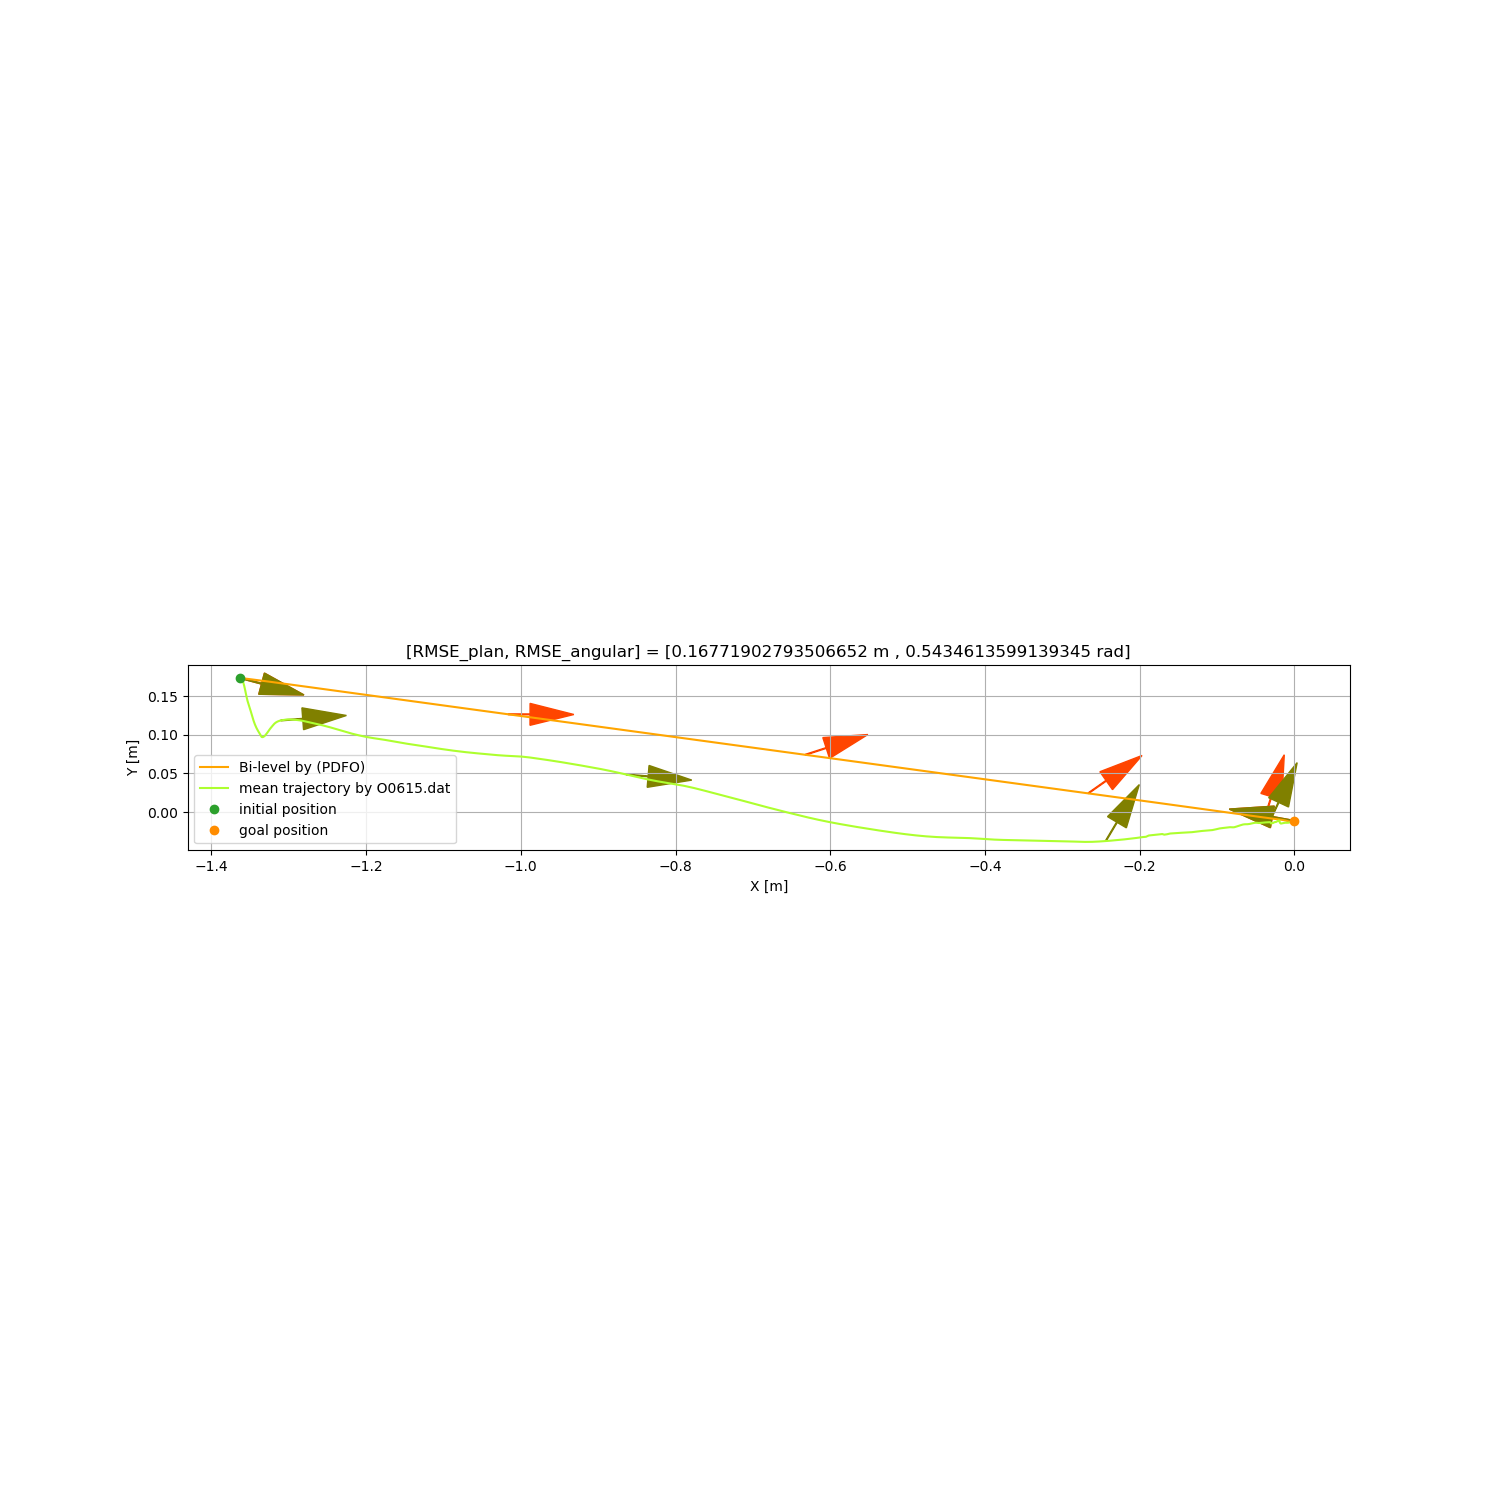
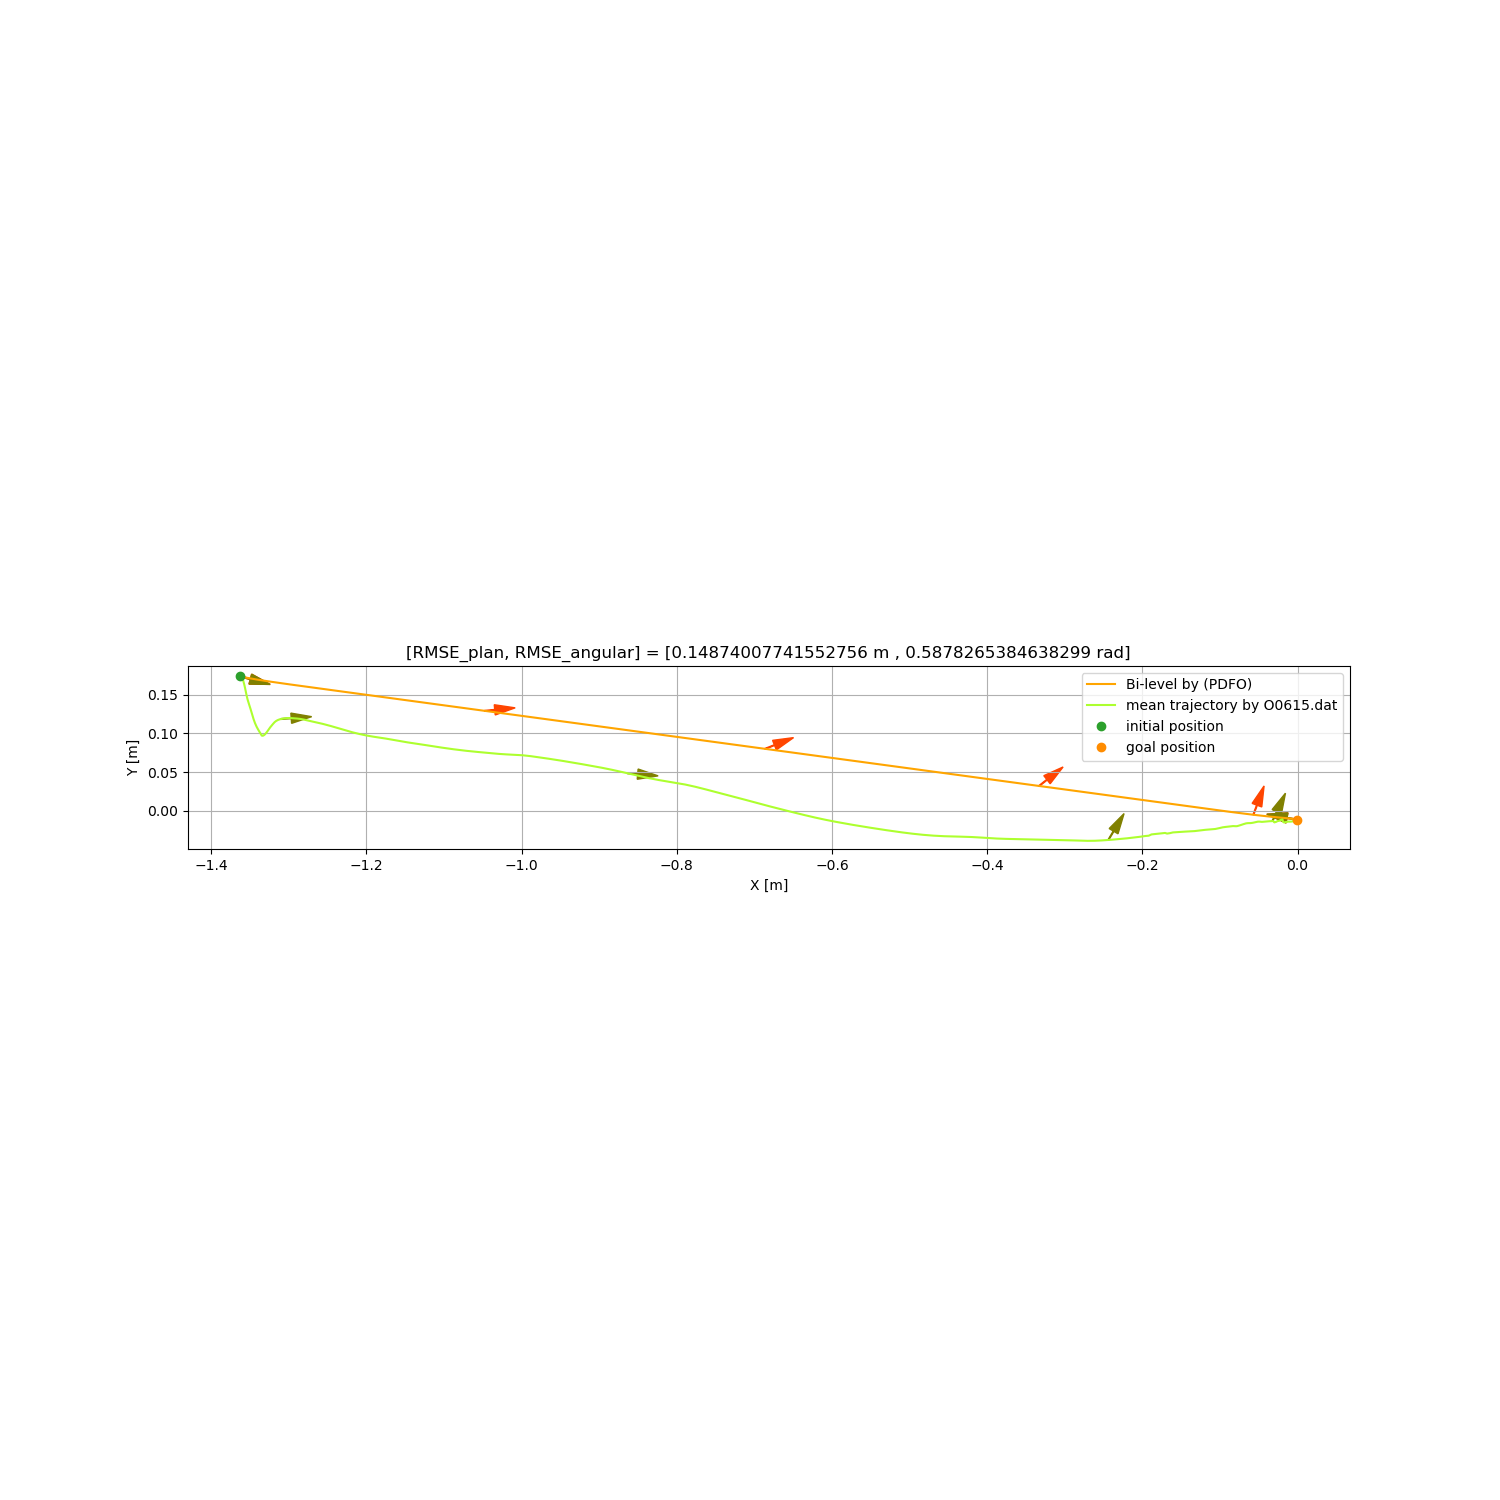
ajou des résultats

Changed region(s): [[0.1227, 0.4293, 0.8893, 0.5827], [0.092, 0.46, 0.1227, 0.5213], [0.3373, 0.552, 0.368, 0.5827]]

diff --git a/Tester en simulation/7_FdC_groupe2/PDFO_7_FdC_groupe2.py b/Tester en simulation/7_FdC_groupe2/PDFO_7_FdC_groupe2.py
@@ -24,6 +24,7 @@ def corr2(a,b):
 Groupe2 = ['O0615.dat','O1515.dat','N0615.dat','S0615.dat','S1515.dat','E0615.dat','N1515.dat','E1515.dat','O-0615.dat','N-0615.dat','S-0615.dat','E-0615.dat']
 
 
+
 m01 ,m02 = 216.6058685341806 ,18770.730081753416
 m11 ,m12 = 0.0 ,91445082.23389618
 m21 ,m22 = 285.12944960426574 ,10778.161111878238
@@ -253,11 +254,7 @@ for j in range (len(Groupe2)):
     plt.figure(figsize=(15,15))
     
     m = (((x[0]-x[-1])**2 + (y[0]-y[-1])**2 )/n)
-    m1 = (((Xmoy[0]-Xmoy[-1])**2 + (Ymoy[0]-Ymoy[-1])**2 )/n)
-
-    if m1 < 1 :
-        m = m*15
-        m1 = m1*15
+    m1 = (((Xmoy[0]-Xmoy[-1])**2 + (Ymoy[0]-Ymoy[-1])**2 )/n)*7
 
     Orientation_ (x[0],y[0],o[0] ,m, color[0])
     Orientation_  (x[100],y[100],o[100] ,m,color[0])

diff --git a/Tester en simulation/7_FdC_groupe4/PDFO_7_FdC_groupe4.py b/Tester en simulation/7_FdC_groupe4/PDFO_7_FdC_groupe4.py
@@ -24,6 +24,7 @@ def corr2(a,b):
 Groupe4 = ['O0640.dat','O1540.dat','S1540.dat','N0640.dat','S0640.dat','O-0640.dat','N1540.dat','E0640.dat','N-0640.dat','S-0640.dat','E1540.dat','E-0640.dat']
 
 
+
 m01 ,m02 = 279.2985516284672 ,36819.88123745937
 m11 ,m12 = 0.0 ,188499082.09456128
 m21 ,m22 = 120.88275779074856 ,7313.609086193289
@@ -253,11 +254,8 @@ for j in range (len(Groupe4)):
     plt.figure(figsize=(15,15))
 
     m = (((x[0]-x[-1])**2 + (y[0]-y[-1])**2 )/n)
-    m1 = (((Xmoy[0]-Xmoy[-1])**2 + (Ymoy[0]-Ymoy[-1])**2 )/n)
+    m1 = (((Xmoy[0]-Xmoy[-1])**2 + (Ymoy[0]-Ymoy[-1])**2 )/n)*2
 
-    if m1 < 1 :
-        m = m*15
-        m1 = m1*15
 
     Orientation_ (x[0],y[0],o[0] ,m, color[0])
     Orientation_  (x[100],y[100],o[100] ,m,color[0])

diff --git a/Tester en simulation/7_FdC_groupe3/PDFO_7_FdC_groupe3.py b/Tester en simulation/7_FdC_groupe3/PDFO_7_FdC_groupe3.py
@@ -24,6 +24,7 @@ def corr2(a,b):
 Groupe3 = ['O4000.dat','S4000.dat','E4000.dat','S4015.dat','N4000.dat','O4015.dat','E4015.dat','N4015.dat']
 
 
+
 m01 ,m02 = 199.48711527253298 ,11291.1993561176
 m11 ,m12 = 0.0 ,1014090692.5190746
 m21 ,m22 = 58.187911897949476 ,36298.72854919096
@@ -254,11 +255,8 @@ for j in range (len(Groupe3)):
     plt.figure(figsize=(15,15))
     
     m = (((x[0]-x[-1])**2 + (y[0]-y[-1])**2 )/n)
-    m1 = (((Xmoy[0]-Xmoy[-1])**2 + (Ymoy[0]-Ymoy[-1])**2 )/n)
+    m1 = (((Xmoy[0]-Xmoy[-1])**2 + (Ymoy[0]-Ymoy[-1])**2 )/n)*2
 
-    if m1 < 1 :
-        m = m*15
-        m1 = m1*15
 
     Orientation_ (x[0],y[0],o[0] ,m, color[0])
     Orientation_  (x[100],y[100],o[100] ,m,color[0])

diff --git a/Tester en simulation/7_FdC_groupe5/PDFO_7_FdC_groupe5.py b/Tester en simulation/7_FdC_groupe5/PDFO_7_FdC_groupe5.py
@@ -251,12 +251,9 @@ for j in range (len(Groupe5)):
 
     plt.figure(figsize=(15,15))
 
-    m = (((x[0]-x[-1])**2 + (y[0]-y[-1])**2 )/n)
-    m1 = (((Xmoy[0]-Xmoy[-1])**2 + (Ymoy[0]-Ymoy[-1])**2 )/n)
+    m = (((x[0]-x[-1])**2 + (y[0]-y[-1])**2 )/n)*2
+    m1 = (((Xmoy[0]-Xmoy[-1])**2 + (Ymoy[0]-Ymoy[-1])**2 )/n)*2
 
-    if m1 < 1 :
-        m = m*15
-        m1 = m1*15
 
     Orientation_ (x[0],y[0],o[0] ,m, color[0])
     Orientation_  (x[100],y[100],o[100] ,m,color[0])
